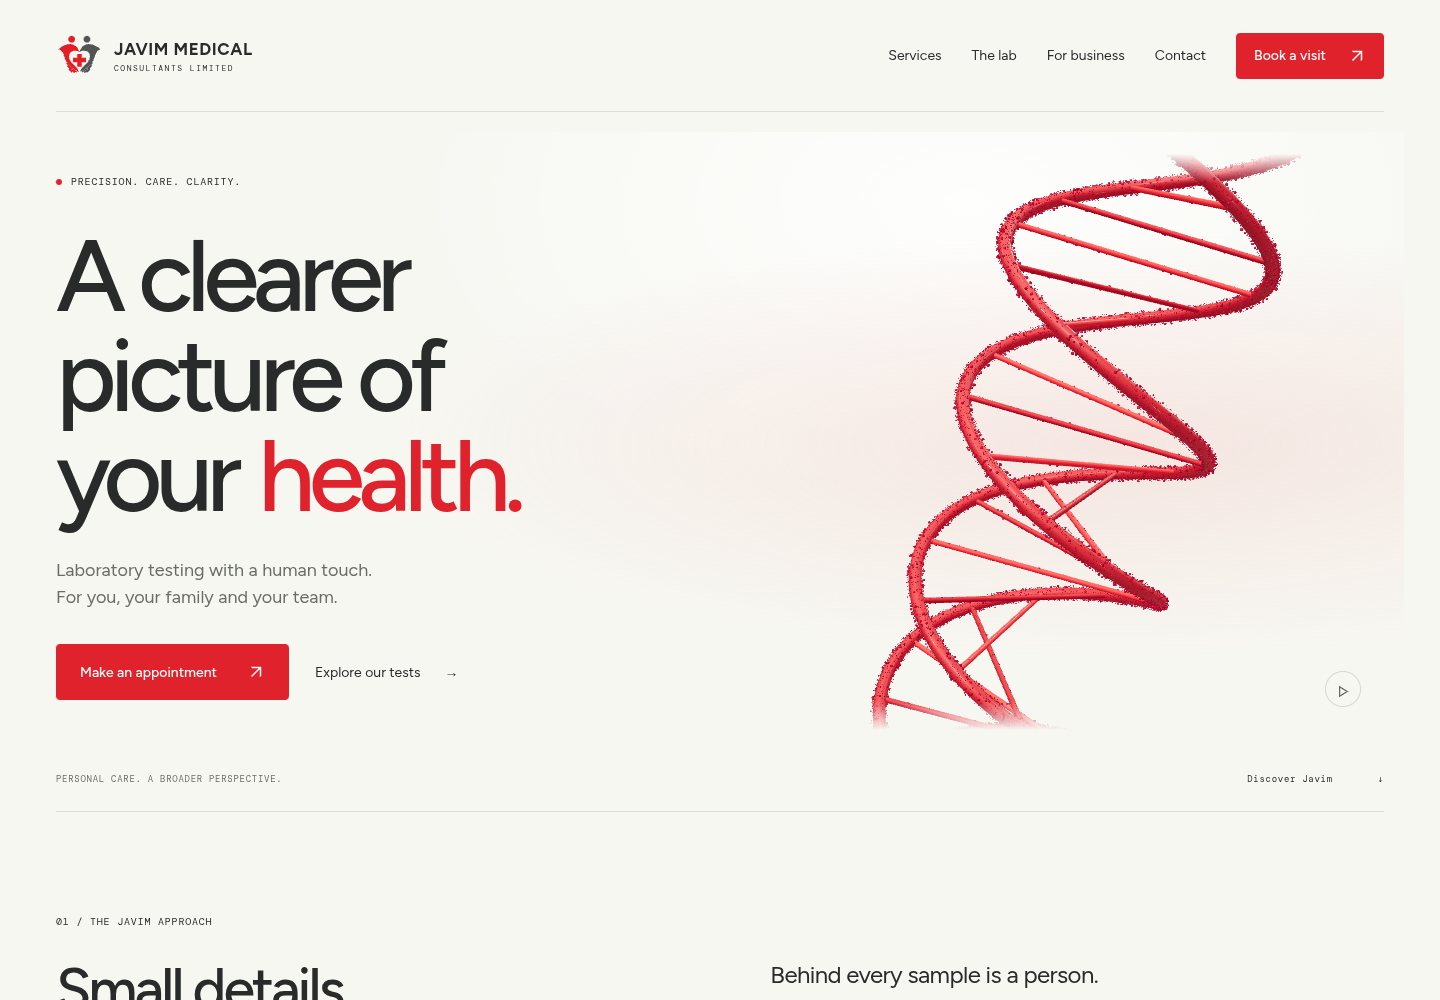
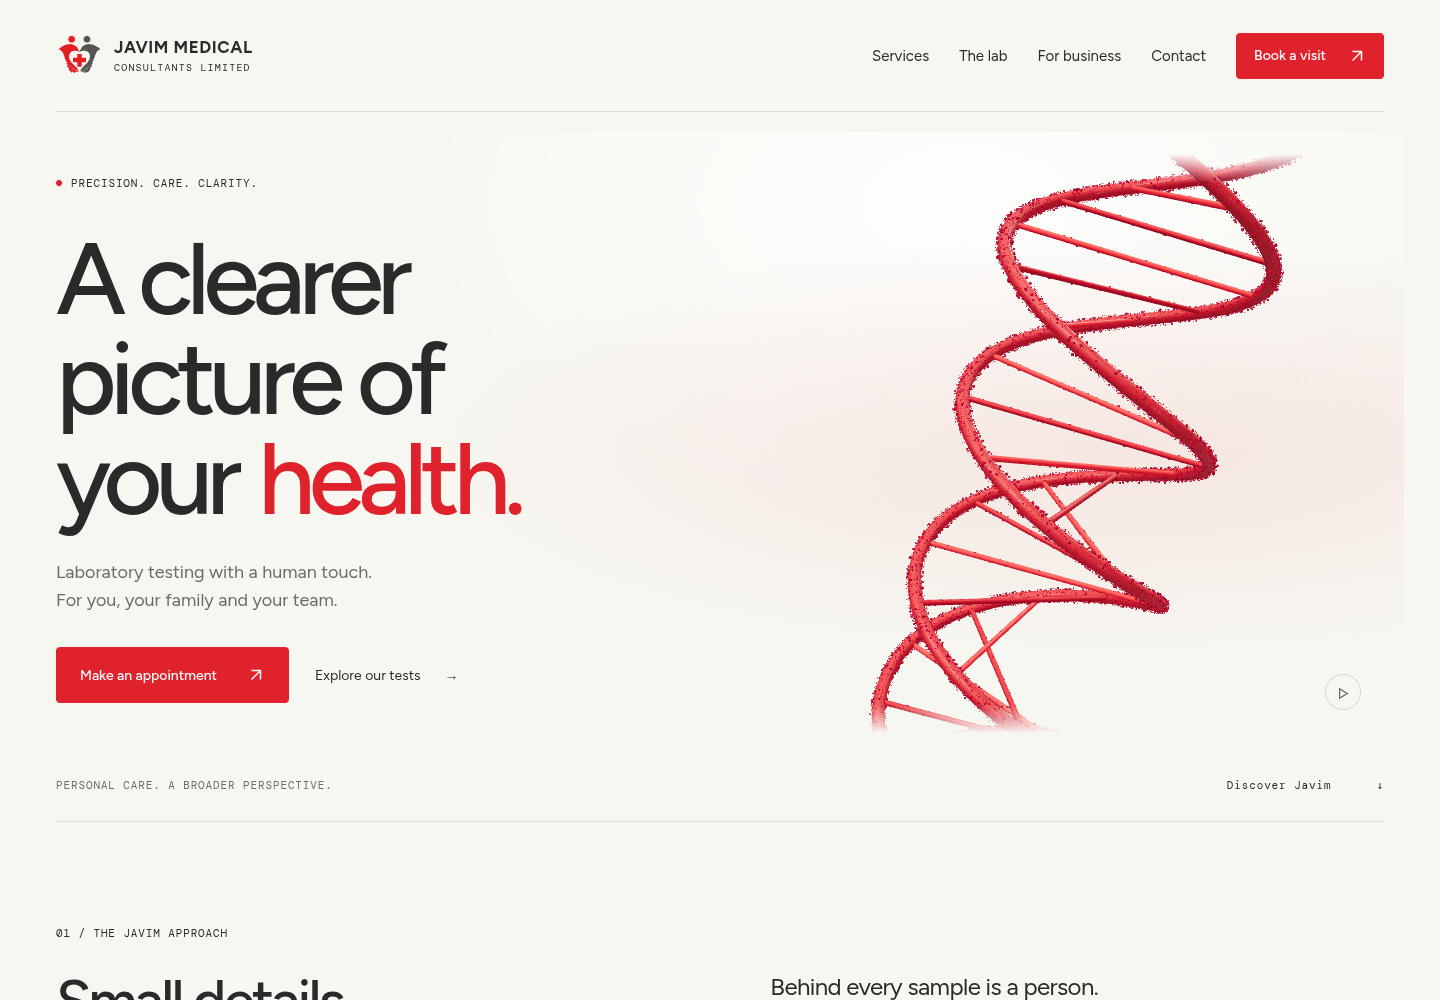
Improve supporting text readability and remove fluid hint

diff --git a/src/main.js b/src/main.js
@@ -18,7 +18,7 @@ function testRow(t) { return `<div class="test-row" data-test-name="${t.name}"><
 const header = `<a class="skip-link" href="#main">Skip to content</a><header class="header wrap">${brand}<button class="menu-toggle" aria-label="Open navigation" aria-expanded="false" aria-controls="navigation">Menu <span aria-hidden="true">＋</span></button><nav id="navigation" aria-label="Main navigation"><a href="/services" ${isServices?'aria-current="page"':''}>Services</a><a href="${homeAnchor('about')}">The lab</a><a href="${homeAnchor('corporate')}">For business</a><a href="${homeAnchor('contact')}">Contact</a><button class="button button-small" data-book>Book a visit ${arrow}</button></nav></header>`;
 const footer = `<footer class="footer wrap"><div class="footer-top">${brand}<p>Thoughtful care.<br>Clearer answers.</p>${waLink('Let’s talk')}</div><div class="footer-bottom"><span>© ${new Date().getFullYear()} Javim Medical Consultants Limited</span><a href="/privacy">Privacy</a><span>Nairobi, Kenya <span class="red-dot"></span></span></div></footer>`;
 const booking = `<dialog id="booking-dialog" aria-labelledby="booking-title" class="booking-dialog"><div class="dialog-head"><span class="eyebrow">YOUR NEXT STEP</span><button class="close-dialog" aria-label="Close booking">×</button></div><h2 id="booking-title">Make time<br>for your health.</h2><p class="muted">Choose what you need. We’ll take it from here.</p><div class="booking-options">${bookingTypes.map((b,i)=>{const url=safeCalUrl(b.calUrl);return `<a href="${url || whatsapp(b.message)}" target="_blank" rel="noopener noreferrer"><span class="index">0${i+1}</span><div><h3>${b.name}</h3><p>${b.description}</p><span class="alias">${url?'CHOOSE A TIME ON CAL.COM':'<span class="whatsapp-text">ARRANGE VIA WHATSAPP</span>'}</span></div>${arrow}</a>`}).join('')}</div><p class="booking-note">Pricing, preparation and collection arrangements are confirmed by our team. Please avoid sending sensitive medical information in your initial enquiry.</p></dialog>`;
-const hero = `<section class="hero wrap" aria-labelledby="hero-title"><div class="hero-copy"><div class="eyebrow"><span class="red-dot"></span> PRECISION. CARE. CLARITY.</div><h1 id="hero-title">A clearer<br>picture of<br>your <em>health.</em></h1><p>Laboratory testing with a human touch.<br>For you, your family and your team.</p><div class="hero-actions"><button class="button" data-book>Make an appointment ${arrow}</button><a class="text-link" href="/services">Explore our tests <span aria-hidden="true">→</span></a></div></div><div class="hero-visual"><div id="medical-scene" role="group" aria-label="DNA helix transforming into interactive flowing particles"><div class="scene-fallback"><svg xmlns="http://www.w3.org/2000/svg" viewBox="0 0 320 500" fill="none" aria-hidden="true"><g stroke="#df222b" stroke-width="10" stroke-linecap="round"><path d="M110 30c160 70-60 120 100 190s-60 120 0 250M210 30C50 100 270 150 110 220s60 120 0 250"/></g><g stroke="#d78689" stroke-width="3"><path d="m110 30 100 0M150 60h20M135 95h50M100 130h120M130 165h60M150 195h20M110 225h100M140 260h40M150 295h20M100 330h120M130 365h60M150 400h20M110 435h100M110 470h100"/></g></svg></div></div><div class="scene-bottom"><span class="fluid-hint" hidden>Move to stir · drag on touch</span><button id="motion-toggle" class="motion-toggle" aria-label="Pause animation" aria-pressed="false"><span aria-hidden="true">Ⅱ</span></button></div></div><div class="hero-foot"><span>PERSONAL CARE. A BROADER PERSPECTIVE.</span><a href="#services">Discover Javim <span aria-hidden="true">↓</span></a></div></section>`;
+const hero = `<section class="hero wrap" aria-labelledby="hero-title"><div class="hero-copy"><div class="eyebrow"><span class="red-dot"></span> PRECISION. CARE. CLARITY.</div><h1 id="hero-title">A clearer<br>picture of<br>your <em>health.</em></h1><p>Laboratory testing with a human touch.<br>For you, your family and your team.</p><div class="hero-actions"><button class="button" data-book>Make an appointment ${arrow}</button><a class="text-link" href="/services">Explore our tests <span aria-hidden="true">→</span></a></div></div><div class="hero-visual"><div id="medical-scene" role="group" aria-label="DNA helix transforming into interactive flowing particles"><div class="scene-fallback"><svg xmlns="http://www.w3.org/2000/svg" viewBox="0 0 320 500" fill="none" aria-hidden="true"><g stroke="#df222b" stroke-width="10" stroke-linecap="round"><path d="M110 30c160 70-60 120 100 190s-60 120 0 250M210 30C50 100 270 150 110 220s60 120 0 250"/></g><g stroke="#d78689" stroke-width="3"><path d="m110 30 100 0M150 60h20M135 95h50M100 130h120M130 165h60M150 195h20M110 225h100M140 260h40M150 295h20M100 330h120M130 365h60M150 400h20M110 435h100M110 470h100"/></g></svg></div></div><div class="scene-bottom"><button id="motion-toggle" class="motion-toggle" aria-label="Pause animation" aria-pressed="false"><span aria-hidden="true">Ⅱ</span></button></div></div><div class="hero-foot"><span>PERSONAL CARE. A BROADER PERSPECTIVE.</span><a href="#services">Discover Javim <span aria-hidden="true">↓</span></a></div></section>`;
 const about = `<section id="about" class="about-section wrap section"><div class="eyebrow">01 / THE JAVIM APPROACH</div><div class="about-grid"><h2>Small details.<br>Meaningful answers.</h2><div><p class="large-copy">Behind every sample is a person.<br>That’s where our work begins.</p><p class="muted">Javim Medical Consultants Limited brings together diagnostic testing and personal service in Nairobi. From a routine check to a more specific investigation, our team helps you understand the next step.</p><details class="quiet-details"><summary>Get to know the lab <span aria-hidden="true">+</span></summary><div><p>Our services span haematology, clinical chemistry, immunoassays and hormones, serology, microbiology, parasitology, and histology and cytology.</p><p>Whether you live locally or are visiting Kenya, speak directly with our team about test availability, sample requirements, pricing and turnaround times.</p></div></details></div></div><div class="principles"><div><span class="index">01</span><h3>Care that listens.</h3><p>A direct conversation with our team.</p></div><div><span class="index">02</span><h3>Testing made simpler.</h3><p>Guidance from enquiry to your visit.</p></div><div><span class="index">03</span><h3>Clarity at every step.</h3><p>Preparation, pricing and timing explained.</p></div></div></section>`;
 const serviceSection = `<section id="services" class="services-section section wrap"><div class="section-heading"><div><span class="eyebrow">02 / OUR SERVICES</span><h2>A world of insight.<br>A simple place to start.</h2></div><p class="muted">Seven areas of diagnostic testing.<br>Open a category to find what you need.</p></div><div class="department-list">${departmentRows()}</div><div class="section-tail"><span class="muted">Already know the test you need?</span><a class="text-link" href="/services">Search the full catalogue <span aria-hidden="true">→</span></a></div></section>`;
 const anatomySVG = `<svg viewBox="0 0 320 580" role="group" aria-label="Illustrated human body with highlighted organs"><defs><linearGradient id="body-fill" x1="0" y1="0" x2="1" y2="1"><stop stop-color="#f4f4ef"/><stop offset=".5" stop-color="#d7d8d2"/><stop offset="1" stop-color="#f6f6f0"/></linearGradient><radialGradient id="organ"><stop stop-color="#f36860"/><stop offset="1" stop-color="#c42028"/></radialGradient></defs><g fill="url(#body-fill)" stroke="#babdb5" stroke-width="1"><path d="M142 79c-8-8-15-18-14-37 1-20 12-30 32-30s31 10 32 30c1 19-6 29-14 37l-1 18 30 10c15 5 22 18 26 39l16 95 12 60-9 11-12-5-14-64-17-59-5 105 4 56-16 105-8 64-10 45 4 22h-30l-2-20 8-41 4-65 5-94-8-41h-18l-8 41 5 94 4 65 8 41-2 20h-30l4-22-10-45-8-64-16-105 4-56-5-105-17 59-14 64-12 5-9-11 12-60 16-95c4-21 11-34 26-39l30-10Z"/></g><g fill="none" stroke="#adb1a8" stroke-width="1.2" opacity=".45"><path d="M160 101v198M132 121c-20 21-27 56-16 78M188 121c20 21 27 56 16 78M124 153q36 18 72 0M120 165q40 20 80 0M119 179q41 19 82 0M122 193q38 17 76 0M125 208q35 14 70 0M135 298l-14 51M185 298l14 51M119 358l11 102M201 358l-11 102"/></g><g class="anatomy-organ" data-organ="blood" fill="url(#organ)"><path d="M160 145c-8-10-15-7-19 0-9 13-4 33 12 41 13 11 23-1 23-17 1-13-3-22-16-24Z"/><g fill="none" stroke="#d32b31" stroke-width="2.5"><path d="M161 184v104m0-79-29 17-9 77m38-87 29 13 9 74M158 149v-30m0 24-38-16-14 61m56-45 38-16 14 61M161 283l-28 59-1 84m29-143 28 59 1 84"/></g></g><g class="anatomy-organ" data-organ="thyroid" fill="url(#organ)"><path d="M156 111c-17-14-16 14-2 10h12c14 4 15-24-2-10Z"/></g><g class="anatomy-organ" data-organ="liver" fill="url(#organ)"><path d="M126 207c8-14 39-12 59-1-9 6-16 12-23 14-17 5-30 4-36-13Z"/></g><g class="anatomy-organ" data-organ="kidneys" fill="url(#organ)"><path d="M136 231c-15-7-21 21-11 29 7 6 16-3 12-9-9-2 1-14-1-20ZM184 231c15-7 21 21 11 29-7 6-16-3-12-9 9-2-1-14 1-20Z"/></g><g class="anatomy-organ" data-organ="metabolic" fill="none" stroke="#d52a32" stroke-width="4"><path d="M141 273q-15-9-13 5t27 6q24-17 29-3t-22 10q-34-1-20 15t38-3"/></g></svg>`;

diff --git a/src/style.css b/src/style.css
@@ -32,8 +32,29 @@
 .booking-options a[href^="https://wa.me/"] h3,.booking-options a[href^="https://wa.me/"]>.index{color:#282b29}
 .booking-options a[href^="https://wa.me/"]:hover h3{color:var(--whatsapp-green)}
 .scene-fallback svg{transform:rotate(-18deg)}
-.fluid-hint{font-family:var(--mono);font-size:9px;letter-spacing:.04em;color:#62695e;margin-right:auto;padding:8px 0;pointer-events:none}
 #medical-scene{cursor:crosshair}
 .scene-fallback svg{max-width:65%;stroke-width:4;opacity:.8}
 .motion-toggle svg{width:15px;height:15px;vertical-align:middle}
-.fluid-hint{background:#f7f7f2e6;border-radius:20px;padding:7px 9px}
+/* Improve the small-text reading experience without enlarging the headlines. */
+.eyebrow,.index,.sample,.test-count,.hero-foot,.anatomy-caption{font-size:11px;line-height:1.7}
+.alias{font-size:12px;line-height:1.6}
+.brand small{font-size:10px;letter-spacing:.12em}
+.header nav{font-size:15px}
+.department-title small,.principles p,.test-row p,.test-action a,.contact-wa{font-size:15px;line-height:1.6}
+.muted{font-size:17px;line-height:1.7}
+.explorer-note,.booking-note,.contact-info .contact-note{font-size:14px;line-height:1.65}
+.booking-options p{font-size:15px;line-height:1.6}
+.footer-bottom{font-size:11px;line-height:1.7}
+.search-bar label{font-size:12px}
+@media(max-width:760px){
+  .brand small{font-size:9px}
+  .hero-foot{font-size:10px;gap:18px}
+  .hero-actions .button,.hero-actions .text-link,.section-tail .text-link,.section-tail .muted{font-size:14px}
+  .muted,.explorer-disclosure summary .muted{font-size:16px}
+  .department-title small,.principles p,.test-row p,.test-action a{font-size:14px}
+  .department .index,.sample,.booking-options .alias{font-size:11px}
+  .test-action{min-width:75px}
+  .footer-bottom{font-size:11px}
+  .system-tabs button,.filter-list button{font-size:13px}
+  .explore-button{font-size:13px}
+}

diff --git a/src/scene.js b/src/scene.js
@@ -189,8 +189,6 @@ export function mountScene(container) {
     container.dataset.phase = motionPhase(elapsed);
     container.dataset.fluid = amount.toFixed(3);
     container.dataset.particleCount = String(count);
-    const hint = container.parentElement.querySelector('.fluid-hint');
-    if (hint) hint.hidden = amount < .2 || paused;
     container.dataset.interaction = uniforms.uInfluence.value > .1 && amount > .1 ? 'active' : 'idle';
     renderer.render(scene, camera); container.querySelector('.scene-fallback').hidden = true;
   };
